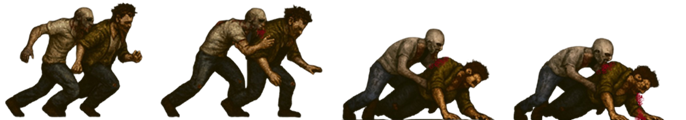
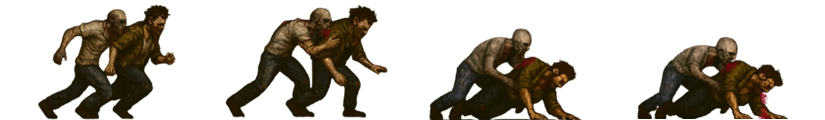
Afino el sprite zombie

Changed region(s): [[0.4898, 0.25, 0.9796, 1.0], [0.2143, 0.05, 0.4592, 1.0], [0.0, 0.025, 0.2143, 1.0]]

diff --git a/src/scenes/GameScene.js b/src/scenes/GameScene.js
@@ -43,7 +43,7 @@ export default class GameScene extends Phaser.Scene {
 
         // Animación de Muerte (Zombie mordiendo)
         this.load.spritesheet('anim_bite', 'assets/img/morder.png', { 
-            frameWidth: 171, 
+            frameWidth: 204, 
             frameHeight: 120 
         });
 
@@ -110,7 +110,7 @@ export default class GameScene extends Phaser.Scene {
         this.anims.create({
             key: 'bite',
             frames: this.anims.generateFrameNumbers('anim_bite', { start: 0, end: -1 }),
-            frameRate: 2, // Ajusta la velocidad si muerden muy rápido
+            frameRate: 3, // Ajusta la velocidad si muerden muy rápido
             repeat: 0      // 0 = Lo hace una vez y para (no queremos que lo muerda infinitamente en bucle)
         });
         
